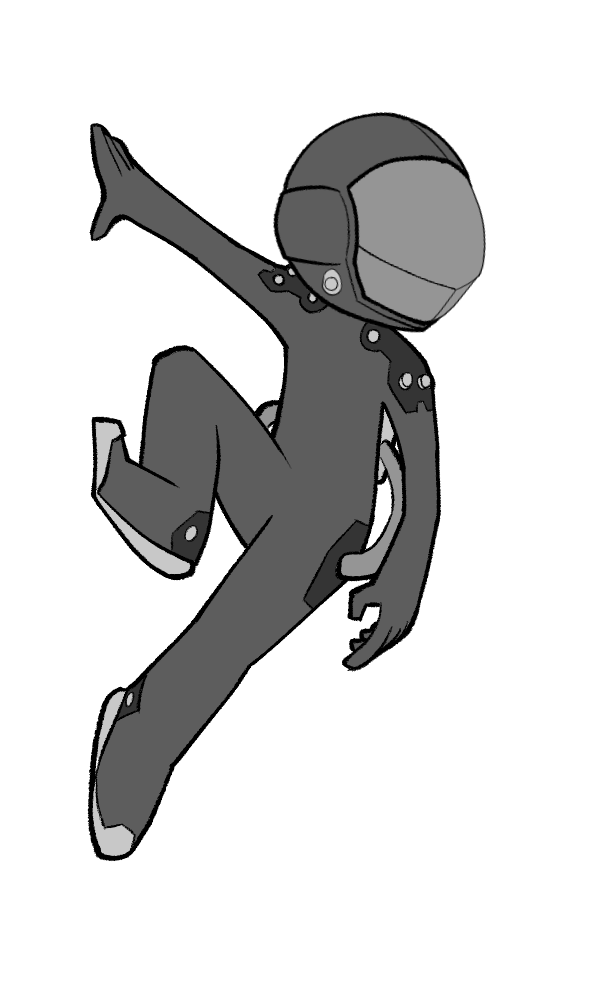
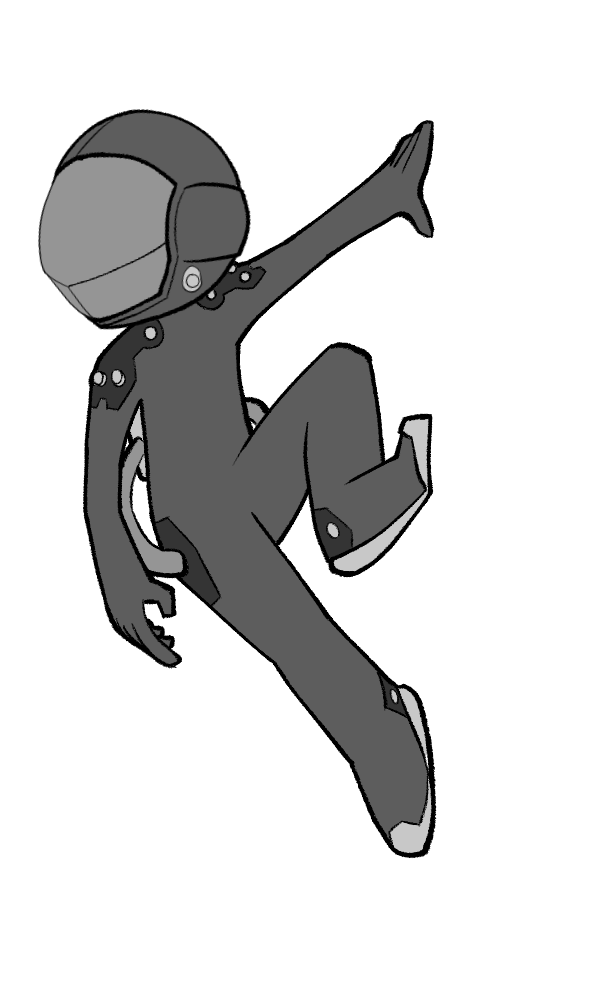
Reimplemented all movement animations

Changed region(s): [[0.06, 0.093, 0.81, 0.868]]

diff --git a/GameJam/Assets/Scripts/PlayerMovement.cs b/GameJam/Assets/Scripts/PlayerMovement.cs
@@ -244,6 +244,33 @@ public class PlayerMovement : MonoBehaviour
 	    else {
 		    player_anim.SetBool("isMoving", false); 
 	    }
+        if (isWallSliding && !isGrounded)
+        {
+            player_anim.SetBool("isWallSliding", true);
+        }
+        else
+        {
+            player_anim.SetBool("isWallSliding", false);
+        }
+
+        if (movementInputDirection == 0 && isGrounded && Input.GetAxisRaw("Vertical") < 0)
+        {
+            player_anim.SetBool("isCrouching", true);
+        }
+        else
+        {
+            player_anim.SetBool("isCrouching", false);
+        }
+
+        if (!isGrounded && rb.velocity.y != 0 && !isWallSliding)
+        {
+            player_anim.SetBool("isJumping", true);
+        }
+        else
+        {
+            player_anim.SetBool("isJumping", false);
+        }
+
     }
     
 }
